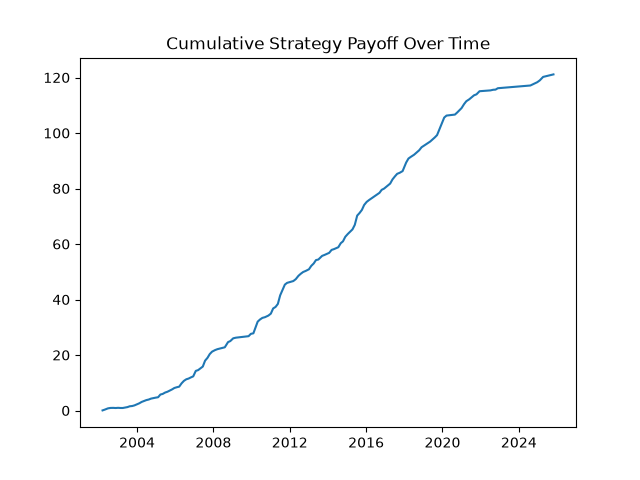
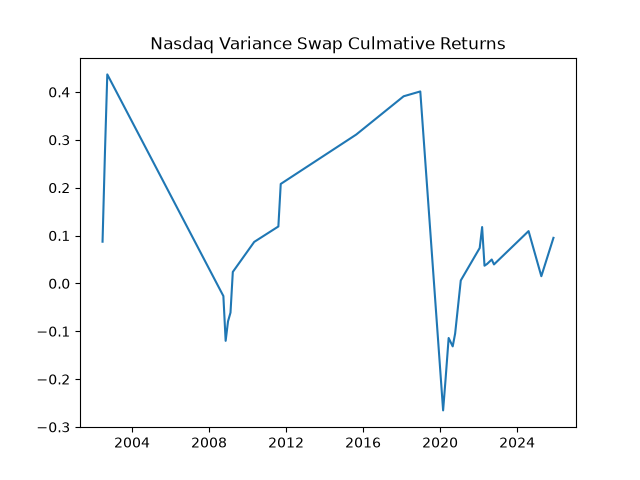
update

diff --git a/Variance_swap_trading/notebooks/backtest.py b/Variance_swap_trading/notebooks/backtest.py
@@ -18,13 +18,13 @@ log_return_daily = np.log(prices_spx).diff()
 Kvar = (prices_vix / 100) ** 2
 
 
-window = 30
+window = 21
 
 # now use previous variance to come up with an estimate value for what Kvar should be
 
 daily_variance_forecast = log_return_daily.rolling(window).var()
 
-forecast_30d_variance = 30 * daily_variance_forecast
+forecast_30d_variance = (252/window) * daily_variance_forecast
 
 
 
@@ -53,14 +53,15 @@ roll_std = vrp.expanding(min_periods=252).std()
 
 vrp_z = ((vrp - roll_mean) / roll_std).dropna() 
 
-
+vrp_z = vrp_z[vrp_z.index < "2018-01-01"]      # in-sample
+#vrp_z = vrp_z[vrp_z.index >= "2018-01-01"]   # out-of-sample
 
 print(vrp_z)
 
 position = 0 # 0 nothign , 1 long var swap, -1 short var swap 
 
 positions = [] 
-entry_req = 0.5
+entry_req = 0.20
 Trading_days = 0
 
 
@@ -72,11 +73,6 @@ for z in vrp_z:
         if z > entry_req:
             position = -1
             entry_today = -1
-            Trading_days = 0
-       
-        elif z < -entry_req:
-            position = 1 # short var
-            entry_today = 1
             Trading_days = 0
     else:
         Trading_days += 1
@@ -113,12 +109,12 @@ for date in entry_record.index:
 
 realised_var_30d = pd.Series(realised_var_30d, name="RealisedVar_30d")
 
-payoff = position * (realised_var_30d - Kvar.loc[entry_record.index])
-
-var_swap_return = 1 + payoff
+payoff = entry_record * (realised_var_30d - Kvar.loc[entry_record.index])
 
 
-plt.plot(var_swap_return)
+
+
+plt.plot(payoff)
 plt.title("Strategy Payoff Over Time")
 plt.savefig("Variance_swap_trading/Figures/variance_swap_return_spx")
 plt.close()
@@ -143,8 +139,9 @@ print(sharpe_annual)
 
 plt.plot(cumulative_payoff)
 
-plt.title("Cumulative Strategy Payoff Over Time")
-plt.savefig("Variance_swap_trading/Figures/cumlative_variance_swap_return")
+plt.title("SPX Variance Swap Cumlative Returns, Out Of sample")
+plt.figtext(0.5, 0.01, f"Sharpe_In_Sample: {sharpe_annual:.2f}", ha="center", fontsize=9)
+plt.savefig("Variance_swap_trading/Figures/Cumlative_Variance_Swap_Return_In_Sample")
 plt.close()
 
 

diff --git a/Variance_swap_trading/backtest.md b/Variance_swap_trading/backtest.md
@@ -33,28 +33,33 @@ Kvar = (prices_vix / 100) ** 2
 
 # Forecasting Volatility 
 
-here we use a previo  
+here we use a previous months variance to forecast the next 30 days, in the future I hope to change this possibly comparing different forecasts for volatilty.   
 ```python
 window = 21
 daily_variance_forecast = log_return_daily.rolling(window).var()
 
-forecast_30d_variance = 30 * daily_variance_forecast
+forecast_30d_variance = (252/window) * daily_variance_forecast
 ```
 
-# So we have our log prices now we can make signal
+ So we have our log prices now we can make signal
 
-# rules we will implement
+ rules we will implement
 
-# we go long/ short variance depending on our expectation for variance
+#we go long/ short variance depending on our expectation for variance
 
-# our signal is Kvar - E[RV], the markets expected variance vs ours
+ our signal is Kvar - E[RV], the markets expected variance vs ours
 
-# this is VRP
+ this is VRP
 
+# Defining The volatiltiy risk premium
+
+This is a topic I have been fasicnated by for over 3 years, I 
+
+
+[Carr and Wu, 2009]
+
+```python
 vrp = Kvar - forecast_30d_variance
-
-# originally made a look forward error here using the total
-# std and mean for the whole data set when should on rolling basis
 
 roll_mean = vrp.expanding(min_periods=252).mean()
 
@@ -62,27 +67,30 @@ roll_std = vrp.expanding(min_periods=252).std()
 
 vrp_z = ((vrp - roll_mean) / roll_std).dropna()
 
+vrp_z = vrp_z[vrp_z.index < "2018-01-01"]      # in-sample
+#vrp_z = vrp_z[vrp_z.index >= "2018-01-01"]   # out-of-sample
 
 print(vrp_z)
+```
 
+
+
+# Signal Creation
+
+I adapt my signal generation from my pairs trading stratergy, as it is the same basic concept of mean reversion. Here I enter when the VRP is either too high or too low. This was good pratice of python general concepts lists, dicts and such, which I learnt from my programming module and kaggle course. Possibly in the futuer as i study "Mastering Python For Finance", I hope to be able to learn how to programme more complicated stratergies such as introducing a weighting factor. 
+```python
 position = 0  # 0 nothing, 1 long var swap, -1 short var swap
 
 positions = []
 entry_req = 0.5
 Trading_days = 0
 
-
-# Signal Creation
-
-I adapt my signal generation from my pairs trading stratergy, as it is the same basic concept of mean reversion. Here I enter when the VRP is either too high or too low, 
-
-```python
 for z in vrp_z:
     entry_today = 0
 
     if position == 0:
 
-        if z > entry_req:
+        if z > entry_req:  
             position = -1
             entry_today = -1
             Trading_days = 0
@@ -94,22 +102,24 @@ for z in vrp_z:
 
     else:
 
-        Trading_days += 1
+        Trading_days += 1  # this is so we dont enter another swap until its matured
 
         if Trading_days >= 30:
             position = 0
             Trading_days = 0
 
     positions.append(entry_today)
+
+positions_series = pd.Series(
+    positions,
+    index=vrp_z.index,
+    name="Position"
+)
 ```
+# Removing Rows 
+Here I remove the rows where no trades are entered, so it just returns the date and value of the postion(long or short). Entry record here is importat as it gives us the start date of the swap and then from there calculate the payoff of the swap, reciving the $ K_{\text{var}} $ value when shorting and then paying the realised. 
 
-positions_series = pd.Series(
-    positions,
-    index=vrp_z.index,
-    name="Position"
-)
-
-# keep only the rows where a position was actually entered (1 or -1)
+```python
 entry_record = positions_series[positions_series != 0]
 
 positions_series = pd.Series(
@@ -117,10 +127,7 @@ positions_series = pd.Series(
     index=vrp_z.index,
     name="Position"
 )
-
-# keep only the rows where a position was actually entered (1 or -1)
-entry_record = positions_series[positions_series != 0]
-
+```
 # so entry record is important as it gives the start date of the swap
 # and whether we are shorting or going long
 
@@ -159,7 +166,9 @@ payoff = position * (
 
 var_swap_return = 1 + payoff
 
+# Stratergy Return per swap
 
+```python
 plt.plot(var_swap_return)
 
 plt.title("Strategy Payoff Over Time")
@@ -169,13 +178,8 @@ plt.savefig(
 )
 
 plt.close()
-
-
-# entries_full = pd.DataFrame({
-#     "Position": entry_record,
-#     "Kvar": Kvar.loc[entry_record.index],
-#     "RealizedVar_30d": realised_var_30d
-# })
+```
+![Variance Swap Payoff, Strike = 0.2](Figures/variance_swap_return.png)
 
 ## Performance metrics
 
@@ -200,6 +204,7 @@ sharpe_annual = (
 print(sharpe_annual)
 ```
 
+
 ## The graph
 
 Now here is the plot of 
@@ -207,14 +212,16 @@ Now here is the plot of
 ```python
 plt.plot(cumulative_payoff)
 
-plt.title("Cumulative Strategy Payoff Over Time")
+plt.title("SPX Variance Swap Cumlative Returns")
 
 plt.savefig(
     "Variance_swap_trading/Figures/cumlative_variance_swap_return"
 )
 plt.close()
 ```
-![Variance Swap Payoff, Strike = 0.2](Figures/cumlative_variance_swap_return.png)
+![Variance Swap Payoff](Figures/Cumlative_Variance_Swap_Return_In_Sample.png) ![Nasdaq Variance Swap Payoff](Figures/Cumlative_Variance_Swap_Return_Out_Of_Sample.png)
+
+
 
 ## References
 

diff --git a/README.md b/README.md
@@ -1,11 +1,21 @@
 # Trading-Volatility
 
+
+
+
 This project is involved in explaining and testing some of the trading strategies listed in (Z. Kakushadze and J.A. Serur. 151 Trading Strategies). I have always been interested in the idea of non directional trading, having zero exposure to the underlying. The strategies I focus on here involve trading volaltity, this means taking a position on future volatility,
 
 the strategies I address are:
-- VIX futures basis Trading
-- Volatility risk premium trading, gamma hedging
 - Volatility trading with variance swaps
+- Volatility risk premium trading, gamma hedging
 
 
-[Variance Swaps](<Variance_swap_trading/variance_swap.md>)  
+ ## [Variance Swaps](<Variance_swap_trading/variance_swap.md>)  
+
+ Here I learn alot 
+
+
+
+ ## [Trading VRP with gamma hedging](<VRP_gamma_hedging/Introduction_to_GH.md>)  
+
+ I am currently working on MIT OCW Topics In Mathematics With applications In Finance, to teach me the level of probability and stochastic calculas required to work around this topic. I will update this page when I start my research, into this 

diff --git a/Variance_swap_trading/Conculsions.md b/Variance_swap_trading/Conculsions.md
@@ -1,0 +1,6 @@
+## Conculsions
+
+
+There is large overfitting 
+
+![Nasdaq Variance Swap Payoff](Figures/Cumlative_Variance_Swap_Return_Out_Of_Sample.png) 
